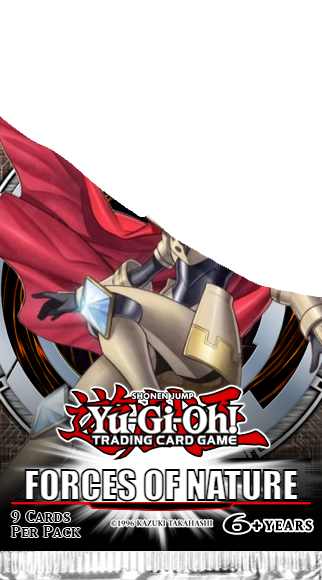
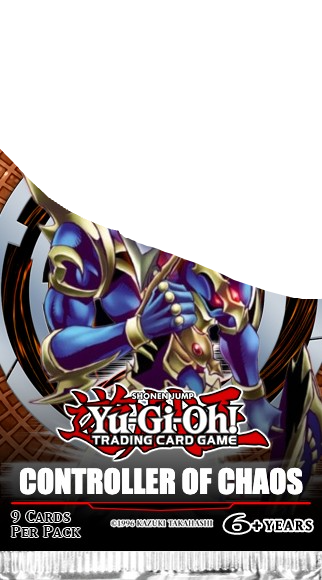
tins

diff --git a/commands/tin.js b/commands/tin.js
@@ -28,7 +28,7 @@ export default {
                             cardName: {[Op.iLike]: `%${focusedValue}%`},
                             cardCode: {[Op.iLike]: `%${focusedValue}%`}
                         },
-                        cardCode: {[Op.startsWith]: 'CT1-'}
+                        cardCode: {[Op.startsWith]: 'CT'}
                     },
                     limit: 6,
                     order: [["cardName", "ASC"]]
@@ -51,7 +51,12 @@ export default {
             const merchbot = await Player.findOne( { where: { discordId: '584215266586525696' }, include: [Wallet] })
             const merchbotWallet = merchbot.wallet
             if (!wallet) return interaction.reply({ content: `You are not in the database. Type **/play** to begin the game.`})
-            if (wallet.starchips < 75) return interaction.reply({ content: `Sorry, ${player.name}, you only have ${wallet.starchips}${starchips} and Collector's Tins cost 75${starchips}.`})
+
+            const newestSeries = promo.cardCode.startsWith('CT2-')
+            const seriesNumber = promo.cardCode.startsWith('CT2-') ? 2 : 1
+            const currency = newestSeries ? 'starchips' : 'stardust'
+            const price = newestSeries ? 75 : 1500
+            if (wallet[currency] < price) return interaction.reply({ content: `Sorry, ${player.name}, you only have ${wallet[currency]}${eval(currency)} and Series ${seriesNumber} Collector's Tins cost ${price}${eval(currency)}.`})
             
             const timestamp = new Date().getTime()
 
@@ -68,7 +73,7 @@ export default {
                     .setStyle(ButtonStyle.Primary)
                 )
 
-            await interaction.reply({ content: `${player.name}, you have ${wallet.starchips}${starchips}. Do you want to spend 75${starchips} on a ${promo.cardName} - Series 1 Collector's Tin?`, components: [row] })
+            await interaction.reply({ content: `${player.name}, you have ${wallet[currency]}${eval(currency)}. Do you want to spend ${price}${eval(currency)} on a ${promo.cardName} - Series ${seriesNumber} Collector's Tin?`, components: [row] })
 
             const filter = i => i.customId.startsWith(`Tin-${timestamp}`) && i.user.id === interaction.user.id;
 
@@ -77,23 +82,26 @@ export default {
                 if (confirmation.customId.includes('Yes')) {
 
                     const updatedWallet = await Wallet.findOne({ where: { playerId: player.id }})
-                    if (updatedWallet.starchips < 75) return interaction.editReply({ content: `Sorry, ${player.name}, you only have ${updatedWallet.starchips}${starchips} and Series 1 Collector's Tins cost 75${starchips}.`})
+                    if (updatedWallet[currency] < price) return interaction.editReply({ content: `Sorry, ${player.name}, you only have ${updatedWallet[currency]}${eval(currency)} and ${seriesNumber} Collector's Tins cost ${price}${eval(currency)}.`})
                     
-                    updatedWallet.starchips -= 75
+                    updatedWallet[currency] -= price
                     await updatedWallet.save()
 
                     merchbotWallet.stardust += 750
                     await merchbotWallet.save()
 
+                    const set1Code = seriesNumber === 2 ? 'FON' : 'AOD'
+                    const set2Code = seriesNumber === 2 ? 'COC' : 'FON'
+
                     const set1 = await ForgedSet.findOne({
                         where: {
-                            code: 'AOD'
+                            code: set1Code
                         }
                     })
 
                     const set2 = await ForgedSet.findOne({
                         where: {
-                            code: 'FON'
+                            code: set2Code
                         }
                     })
 
@@ -103,7 +111,7 @@ export default {
                     set2.unitSales += 3
                     await set2.save()
                     
-                    interaction.editReply({ content: `Thank you for your purchase! I'll send you the contents of your Series 1 Collector's Tin.`, components: []})
+                    interaction.editReply({ content: `Thank you for your purchase! I'll send you the contents of your ${seriesNumber} Collector's Tin.`, components: []})
                     
                     const set1Commons = [...await ForgedPrint.findAll({ 
                         where: {
@@ -330,7 +338,7 @@ export default {
                     }
 
                     const yourPromoAttachment = await drawCardImage(promo.cardName)
-                    return interaction.user.send({ content: `${CTP} - Series 1 Collector's Tin Promo - ${CTP}\n${eval(promo.rarity)}${promo.cardCode} - ${promo.cardName}`, files: [yourPromoAttachment] }).catch((err) => console.log(err))
+                    return interaction.user.send({ content: `${CTP} - Series ${seriesNumber} Collector's Tin Promo - ${CTP}\n${eval(promo.rarity)}${promo.cardCode} - ${promo.cardName}`, files: [yourPromoAttachment] }).catch((err) => console.log(err))
                 } else {
                     await interaction.editReply({ content: `Not a problem. No Collector's Tin was purchased.`, components: [] })
                 }
